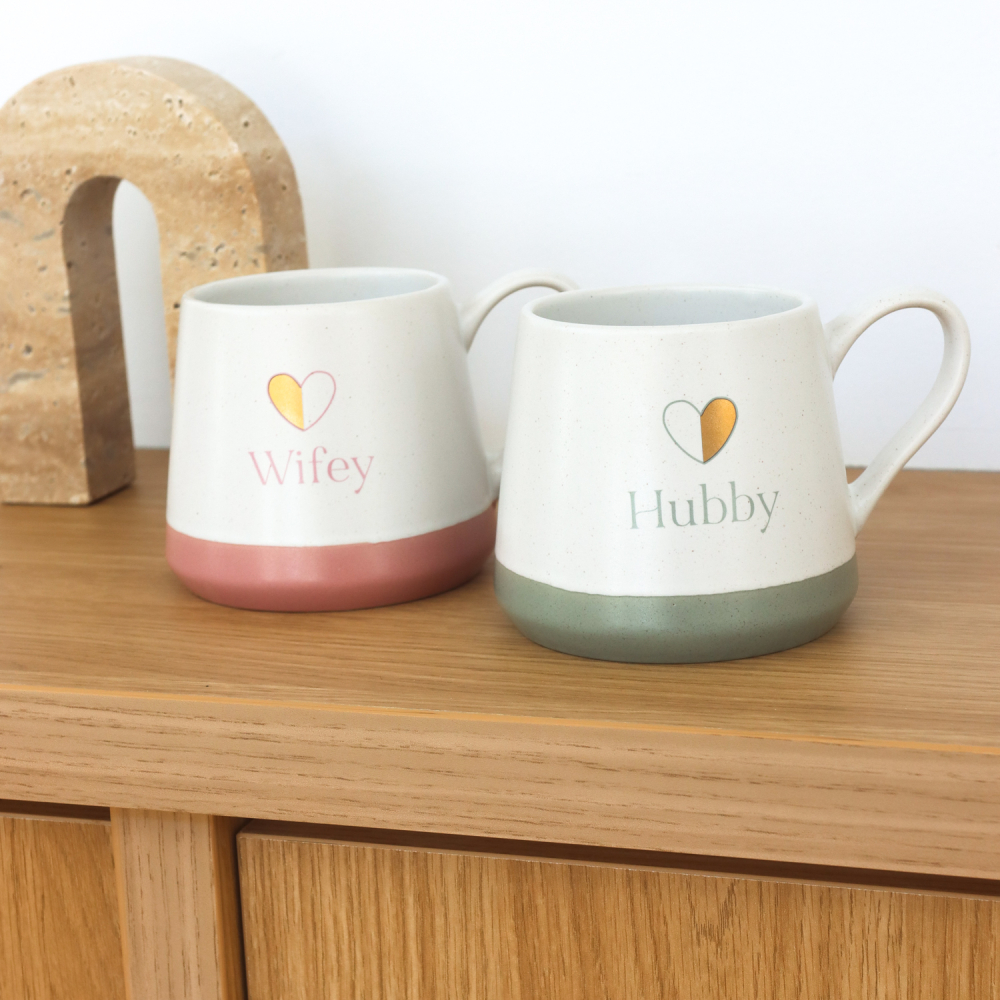
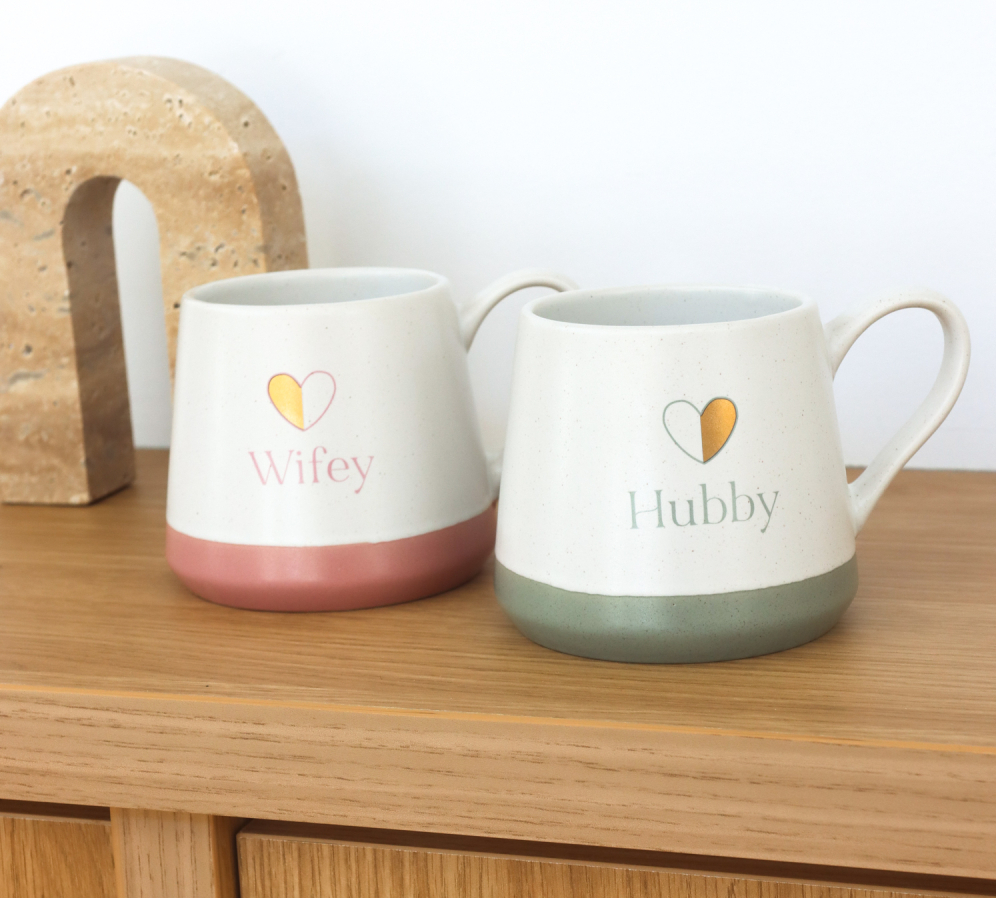
picture changes, red truck and centering of mugs

diff --git a/src/pages/AboutPage/AboutPage.jsx b/src/pages/AboutPage/AboutPage.jsx
@@ -2,7 +2,7 @@ import React from "react";
 import "./AboutPage.css";
 import bugPins from '../../images/product_pictures/bug_pins.jpg'
 import spouseMugs from '../../images/product_pictures/spouse_mugs.jpg'
-import socking from '../../images/product_pictures/socking.jpg'
+import socking from '../../images/product_pictures/red_truck.jpg'
 import Nav2 from "../../components/Nav2/Nav2";
 
 import { Splide, SplideSlide } from '@splidejs/react-splide';

diff --git a/src/pages/AboutPage/AboutPage.css b/src/pages/AboutPage/AboutPage.css
@@ -11,7 +11,7 @@
 }
 
 .aboutPage .text-container img {
-  /* height: 500px; */
+  height: 500px;
   width: 100%;
   object-fit: cover;
 }
